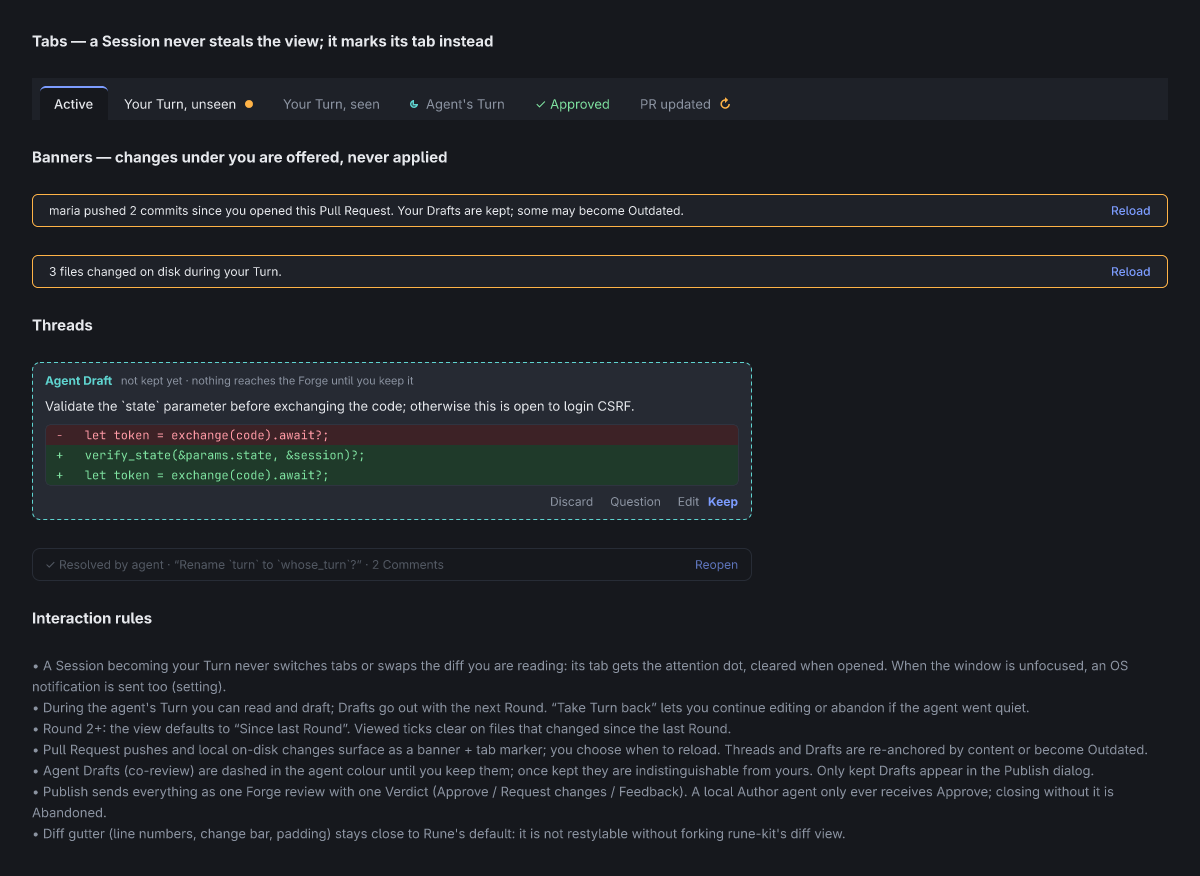
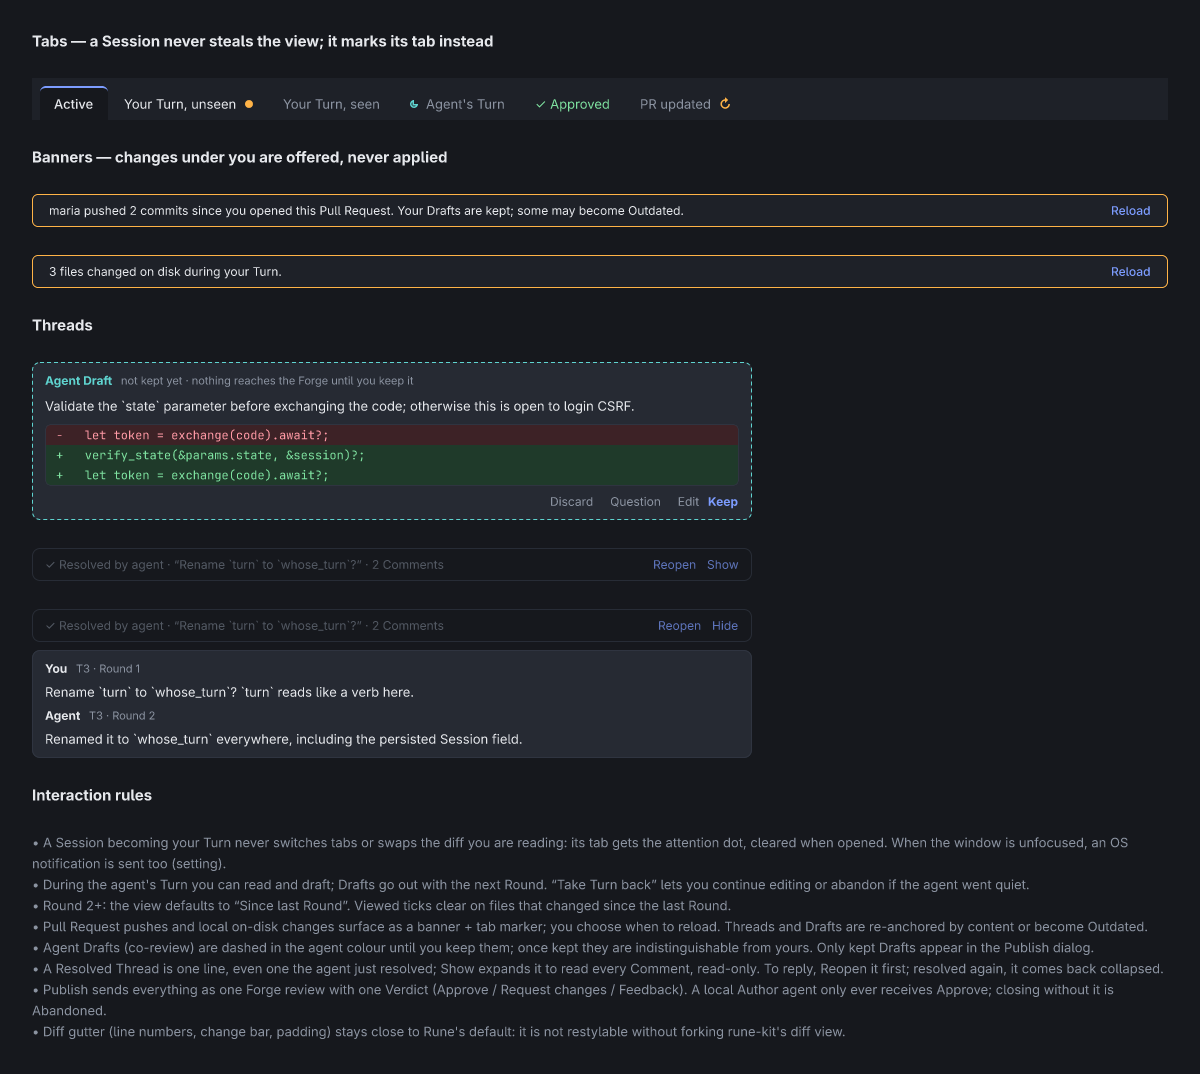
Let the human expand a Resolved Thread to read its Comments (#69)
A Resolved Thread's one line gets Show/Hide beside Reopen. Expanded, its
Comments show read-only below it, as an expanded Outdated Thread's do; to
reply, the human reopens it first. The expanded state reuses
`SessionTab.expanded` (`toggle_outdated` becomes `toggle_expanded`), and a
Thread that is neither Outdated nor Resolved leaves it when the Window is
next applied, so a reopened Thread resolved again comes back collapsed.

The States & interactions board shows the expanded Resolved Thread.

diff --git a/crates/akshually-ui/src/lib.rs b/crates/akshually-ui/src/lib.rs
@@ -175,7 +175,8 @@ struct SessionTab {
     /// What the human can do in `session`, as the service works it out.
     actions: SessionActions,
     diff: DiffState,
-    /// Outdated Threads the human expanded; the others show as one collapsed line.
+    /// Outdated and Resolved Threads the human expanded; the others show as one collapsed line.
+    /// The UI's own, so it's lost on restart.
     expanded: Vec<ThreadId>,
     /// The header's Changeset view dropdown is open. Kept per Session, so it doesn't show open
     /// in another tab.
@@ -336,6 +337,11 @@ impl State {
                         }
                     }
                     tab.actions = session.actions();
+                    // A reopened Thread leaves `expanded`, so it comes back collapsed if it's
+                    // resolved again (#69).
+                    tab.expanded.retain(|id| {
+                        session.threads.iter().any(|t| &t.id == id && (t.outdated || t.resolved.is_some()))
+                    });
                     tab.session = session;
                     tab
                 }
@@ -649,8 +655,8 @@ impl State {
         }
     }
 
-    /// Expands or collapses an Outdated Thread.
-    fn toggle_outdated(&mut self, thread: &ThreadRef) {
+    /// Expands or collapses an Outdated or Resolved Thread.
+    fn toggle_expanded(&mut self, thread: &ThreadRef) {
         let Some(tab) = self.tab_mut(&thread.session) else { return };
         match tab.expanded.iter().position(|t| t == &thread.thread) {
             Some(at) => {
@@ -1551,14 +1557,15 @@ fn annotation(k: &Kit, s: &State, a: &Annotation, agent: Color) -> El {
     }
 }
 
-/// A Thread of `tab`'s Session: its card, or one line while it's Resolved, with the actions the
+/// A Thread of `tab`'s Session: its card, or one line while it's Resolved unless the human
+/// expanded it, with the actions the
 /// Session offers in it. A co-Reviewer's Draft the human hasn't kept shows in the `agent` colour.
 fn thread_view(k: &Kit, s: &State, thread: &Thread, tab: &SessionTab, agent: Color) -> El {
     let session = &tab.session.id;
     // `actions` is worked out from the same Session, so it has every Thread.
     let Some(offered) = tab.actions.thread(&thread.id) else { return col() };
     if thread.resolved.is_some() {
-        resolved_row(k, thread, session, offered)
+        resolved_row(k, thread, tab, offered)
     } else if thread.comments.first().is_some_and(Comment::is_agent_draft) {
         agent_draft_card(k, s, thread, session, offered, agent)
     } else {
@@ -1675,7 +1682,8 @@ fn resolve_button(k: &Kit, thread: &Thread, session: &SessionId, offered: &Threa
     let at = ThreadRef::new(session, &thread.id);
     if offered.reopen {
         let reopen = move |s: &mut State| s.act_on_thread(&at, Service::reopen_thread);
-        Some(Button::new("Reopen").variant(ButtonVariant::Ghost).on_press(reopen).build(k))
+        let key = format!("reopen-{}", thread.id);
+        Some(Button::new("Reopen").variant(ButtonVariant::Ghost).on_press(reopen).build(k).key(key))
     } else if offered.resolve {
         let resolve = move |s: &mut State| s.act_on_thread(&at, Service::resolve_thread);
         Some(Button::new("Resolve").variant(ButtonVariant::Ghost).on_press(resolve).build(k))
@@ -1694,11 +1702,14 @@ fn resolved_by(thread: &Thread) -> String {
     }
 }
 
-/// A Resolved Thread, collapsed to one line with a way to reopen it.
-fn resolved_row(k: &Kit, thread: &Thread, session: &SessionId, offered: &ThreadActions) -> El {
+/// A Resolved Thread: one line with a way to reopen it, and once the human expands it, its
+/// Comments read-only below. To reply, the human reopens it first.
+fn resolved_row(k: &Kit, thread: &Thread, tab: &SessionTab, offered: &ThreadActions) -> El {
     let first = first_line(thread);
     let count = thread.comments.len();
-    row()
+    let expanded = tab.expanded.contains(&thread.id);
+    let at = ThreadRef::new(&tab.session.id, &thread.id);
+    let summary = row()
         .w_full()
         .max_w(720.0)
         .px(12.0)
@@ -1718,7 +1729,24 @@ fn resolved_row(k: &Kit, thread: &Thread, session: &SessionId, offered: &ThreadA
             .color(k.c.text_faint),
         )
         .child(row().grow(1.0))
-        .children(resolve_button(k, thread, session, offered))
+        .children(resolve_button(k, thread, &tab.session.id, offered))
+        .child(toggle_button(k, &at, expanded));
+    let mut view = col().key(format!("resolved-{}", thread.id)).w_full().max_w(720.0).gap(8.0).child(summary);
+    if expanded {
+        view = view.child(thread_card(k, thread, None).key(format!("resolved-comments-{}", thread.id)));
+    }
+    view
+}
+
+/// Show or Hide, which expands or collapses `thread`.
+fn toggle_button(k: &Kit, thread: &ThreadRef, expanded: bool) -> El {
+    let key = format!("toggle-{}", thread.thread);
+    let thread = thread.clone();
+    Button::new(if expanded { "Hide" } else { "Show" })
+        .variant(ButtonVariant::Ghost)
+        .on_press(move |s: &mut State| s.toggle_expanded(&thread))
+        .build(k)
+        .key(key)
 }
 
 fn card(k: &Kit) -> El {
@@ -1747,10 +1775,12 @@ fn thread_card(k: &Kit, thread: &Thread, actions: Option<(&State, &SessionId, &T
                     .gap(8.0)
                     .child(row().grow(1.0))
                     .children(offered.reply.then(|| {
+                        let key = format!("reply-{}", thread.id);
                         Button::new("Reply")
                             .variant(ButtonVariant::Ghost)
                             .on_press(move |s: &mut State| s.open_reply(at.clone()))
                             .build(k)
+                            .key(key)
                     }))
                     .children(resolve_button(k, thread, session, offered)),
             )
@@ -1875,12 +1905,7 @@ fn outdated_threads(k: &Kit, tab: &SessionTab) -> El {
             )
             .child(row().grow(1.0))
             .children(resolve)
-            .child(
-                Button::new(if expanded { "Hide" } else { "Show" })
-                    .variant(ButtonVariant::Ghost)
-                    .on_press(move |s: &mut State| s.toggle_outdated(&at))
-                    .build(k),
-            );
+            .child(toggle_button(k, &at, expanded));
         let mut card = card(k).max_w(f32::INFINITY).child(summary);
         if expanded {
             if !thread.excerpt.is_empty() {

diff --git a/crates/akshually-ui/tests/diff_view.rs b/crates/akshually-ui/tests/diff_view.rs
@@ -1,12 +1,15 @@
 //! UI: a Session's Changeset view in Rune's headless `Runtime`, against real Sessions in the
 //! core service, for what the render smoke check can't reach: input that lands between an
-//! update and the next rebuild (#37), and the comment box across updates (#48).
+//! update and the next rebuild (#37), the comment box across updates (#48), and expanding a
+//! Resolved Thread (#69).
 
 use std::sync::Arc;
+use std::time::Duration;
 
+use rune::accesskit::Action;
 use rune::{Env, Runtime};
 
-use akshually_core::{ReviewRequest, Service};
+use akshually_core::{Anchor, ReviewRequest, Service, SessionId, Side, ThreadId, ThreadRef};
 use akshually_testkit::TestRepo;
 use akshually_ui::{State, view};
 
@@ -42,6 +45,86 @@ fn open_comment_box(rt: &mut Runtime<State>) {
     rt.pointer_up(x, y);
     rt.frame(0.0);
     assert!(rt.find("composer").is_some(), "the comment box didn't open");
+}
+
+/// The Session of `repo`'s first Round: the human's Comment `T1` on its one line, which the
+/// agent answered and resolved.
+fn resolved_by_the_agent(repo: &TestRepo, service: &Service) -> SessionId {
+    let pending = service.review(ReviewRequest::new(repo.path())).unwrap();
+    let id = pending.session().clone();
+    service.comment(&id, Anchor::lines(Side::New, "a.txt", 1..=1), "Why two?").unwrap();
+    service.hand_over_round(&id).unwrap();
+    assert!(pending.wait_timeout(Duration::from_secs(5)).is_some(), "the Round wasn't handed over");
+    let t1 = ThreadId::new("T1");
+    service.reply(repo.path(), &t1, "Because one was wrong.").unwrap();
+    service.resolve(repo.path(), &t1).unwrap();
+    id
+}
+
+/// Presses the element keyed `key` as an assistive client would.
+fn press(rt: &mut Runtime<State>, key: &str) {
+    assert!(rt.accessibility_action(key, Action::Click, None), "nothing to press at `{key}`");
+    rt.frame(0.0);
+}
+
+#[test]
+fn a_thread_the_agent_resolved_in_a_round_arrives_collapsed() {
+    let repo = repo_with_one_edit();
+    let service = Arc::new(Service::new());
+    let _id = resolved_by_the_agent(&repo, &service);
+
+    let rt = window(&service);
+
+    assert!(rt.find("resolved-T1").is_some(), "the Resolved Thread doesn't show as one line");
+    assert!(rt.find("resolved-comments-T1").is_none(), "the Resolved Thread arrived expanded");
+}
+
+#[test]
+fn showing_a_resolved_thread_reveals_its_comments_without_a_reply_box() {
+    let repo = repo_with_one_edit();
+    let service = Arc::new(Service::new());
+    let _id = resolved_by_the_agent(&repo, &service);
+    let mut rt = window(&service);
+
+    press(&mut rt, "toggle-T1");
+
+    assert!(rt.find("resolved-comments-T1").is_some(), "Show didn't reveal the Thread's Comments");
+    assert!(rt.find("reply-T1").is_none(), "the expanded Resolved Thread offers a Reply");
+    assert!(rt.find("reopen-T1").is_some(), "Reopen left the summary line");
+}
+
+#[test]
+fn hiding_an_expanded_resolved_thread_collapses_it_to_one_line_again() {
+    let repo = repo_with_one_edit();
+    let service = Arc::new(Service::new());
+    let _id = resolved_by_the_agent(&repo, &service);
+    let mut rt = window(&service);
+    press(&mut rt, "toggle-T1");
+
+    press(&mut rt, "toggle-T1");
+
+    assert!(rt.find("resolved-T1").is_some(), "the Resolved Thread's line went");
+    assert!(rt.find("resolved-comments-T1").is_none(), "Hide left the Thread's Comments showing");
+}
+
+#[test]
+fn an_expanded_thread_reopened_and_resolved_again_comes_back_collapsed() {
+    let repo = repo_with_one_edit();
+    let service = Arc::new(Service::new());
+    let id = resolved_by_the_agent(&repo, &service);
+    let mut rt = window(&service);
+    press(&mut rt, "toggle-T1");
+
+    press(&mut rt, "reopen-T1");
+    deliver_window(&mut rt, &service);
+    rt.frame(0.0);
+    assert!(rt.find("reply-T1").is_some(), "the reopened Thread doesn't offer a Reply");
+    service.resolve_thread(&ThreadRef::new(&id, &ThreadId::new("T1"))).unwrap();
+    deliver_window(&mut rt, &service);
+    rt.frame(0.0);
+
+    assert!(rt.find("resolved-T1").is_some(), "the Thread resolved again doesn't show as one line");
+    assert!(rt.find("resolved-comments-T1").is_none(), "the Thread resolved again came back expanded");
 }
 
 #[test]
